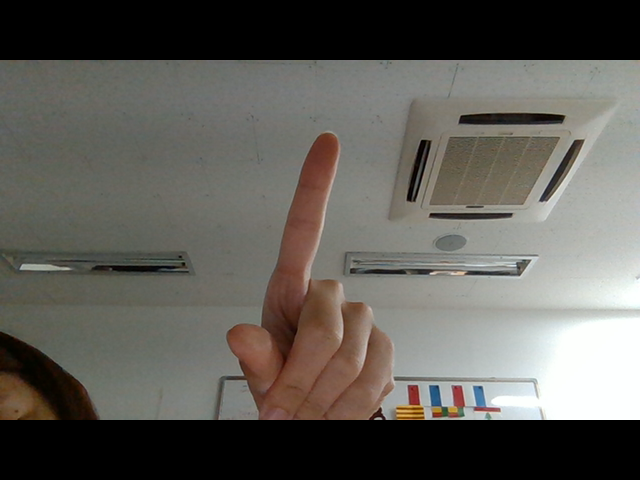
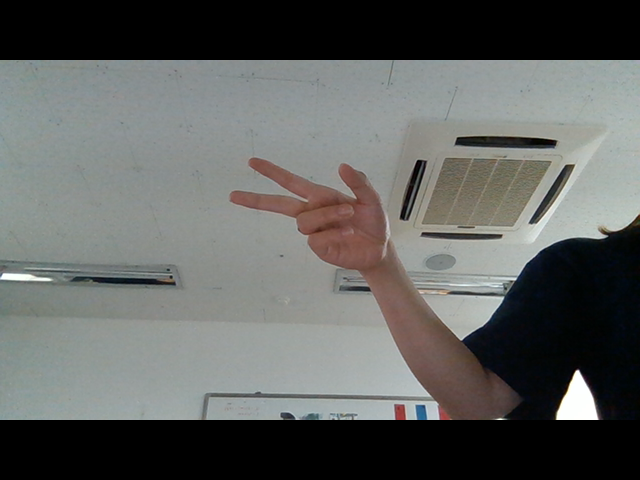
카메라 전환 추가

diff --git a/main.py b/main.py
@@ -74,9 +74,11 @@ def mouse_callback(event, x, y, flags, param):
                 u_skinv = hsv[2]
         change_TrackbarValue(l_skinh, u_skinh, l_skins, u_skins, l_skinv, u_skinv)
 
-cap = cv2.VideoCapture(0)
+cam_default = cam_num = 1
+cap = cv2.VideoCapture(cam_num)
 
 frame_write_interval = 0
+cam_change_interval = 0
 
 cv2.namedWindow('frame')
 cv2.setMouseCallback('frame', mouse_callback)
@@ -149,11 +151,13 @@ while True:
         # 깊이의 개수
         l = 0
         notice = 0
-
+        detect_cam_change_finger = False
         detect_pointing_finger = False
+        
         if areacnt < 2000:
             #"좀 더 안쪽을 가리켜주세요" 명령 추가 필요
-            notice = 1
+            if areacnt > 100:
+                notice = 1
             cv2.putText(frame, 'Put hand in the box', (0, 50), font, 2, (0, 0, 255), 3, cv2.LINE_AA)
         else:
             #cv2.convexityDefects 컨벡스 결함
@@ -226,45 +230,60 @@ while True:
                 else:   
                     detect_pointing_finger = True
                     cv2.putText(frame, '1', (0, 50), font, 2, (0, 0, 255), 3, cv2.LINE_AA)
-            elif l == 1:
+            elif l == 1:  #손가락 2개일 때 캠 전환
+                detect_cam_change_finger = True
                 cv2.putText(frame, '2', (0, 50), font, 2, (0, 0, 255), 3, cv2.LINE_AA)
+            elif cam_num != cam_default and l == 2:  #손가락 3개일 때 기존 캠으로 돌아옴 --> 패턴 음성출력 후 돌아 오는걸로 수정필요
+                detect_cam_change_finger = True
+                cv2.putText(frame, '3', (0, 50), font, 2, (0, 0, 255), 3, cv2.LINE_AA)
             else :
                 #"손을 접어 가리켜주세요" 명령 추가 필요
                 notice = 3
                 cv2.putText(frame, 'reposition', (10, 50), font, 2, (0, 0, 255), 3, cv2.LINE_AA)
-        if detect_pointing_finger == True:
-            frame_write_interval += 1
-        else:
-            frame_write_interval = 0
         
+        if detect_cam_change_finger == True:
+            cam_change_interval += 1
+            if cam_change_interval == 40:
+                cam_change_interval = 0
+                cam_num ^= 1
+                cap = cv2.VideoCapture(cam_num)
+                if cam_num != cam_default:
+                    notice = 4
+        else:
+            cam_change_interval = 0
+
         if notice > 0:
             notice_interval += 1
+            if notice_interval == 60:
+                notice_interval = 0
+                text = '0,0,0,' + str(notice) + ',1,\n'
+                print(text)
+
+                file = open('test.txt', 'w', encoding = 'utf8')
+                file.write(text)
+                file.close()
         else:
             notice_interval = 0
 
-        if notice_interval == 60:
-            notice_interval = 0
-            text = '0,0,0,' + str(notice) + ',1,\n'
-            print(text)
+        if detect_pointing_finger == True:
+            frame_write_interval += 1
+            if frame_write_interval == 20:
+                frame_write_interval = 0
+                #이미지 저장 추가
+                cv2.imwrite('test.png', raw_frame)
+                
+                if cam_num == cam_default:
+                    text_rgb = ','.join(map(str, px))
+                    text_rgb += ',' + str(notice)
+                    text_rgb += ',1,\n'
+                    print(text_rgb)
 
-            file = open('test.txt', 'w', encoding = 'utf8')
-            file.write(text)
-            file.close()
-        
-        #file write 추가
-        if frame_write_interval == 20:
+                    file = open('test.txt', 'w', encoding = 'utf8')
+                    file.write(text_rgb)
+                    file.close()
+        else:
             frame_write_interval = 0
-            #이미지 저장 추가
-            cv2.imwrite('test.png', raw_frame)
-            text_rgb = ','.join(map(str, px))
-            text_rgb += ',' + str(notice)
-            text_rgb += ',1,\n'
-            print(text_rgb)
 
-            file = open('test.txt', 'w', encoding = 'utf8')
-            file.write(text_rgb)
-            file.close()
-            
         cv2.imshow('mask', mask)
         cv2.imshow('frame', frame)
     except:

diff --git a/create_mp3_with_gtts.py b/create_mp3_with_gtts.py
@@ -7,10 +7,10 @@ try:
 except:
     pass
 os.chdir('voice')
-os.chdir('notice')
+os.chdir('notices')
 
-file_name = "3"
-text = "손을 접어 가리켜주세요"
+file_name = "4"
+text = "옷을 꺼내주세요"
 
 tts = gTTS(text=text, lang='ko')
 m_mpfile = file_name + ".mp3"
